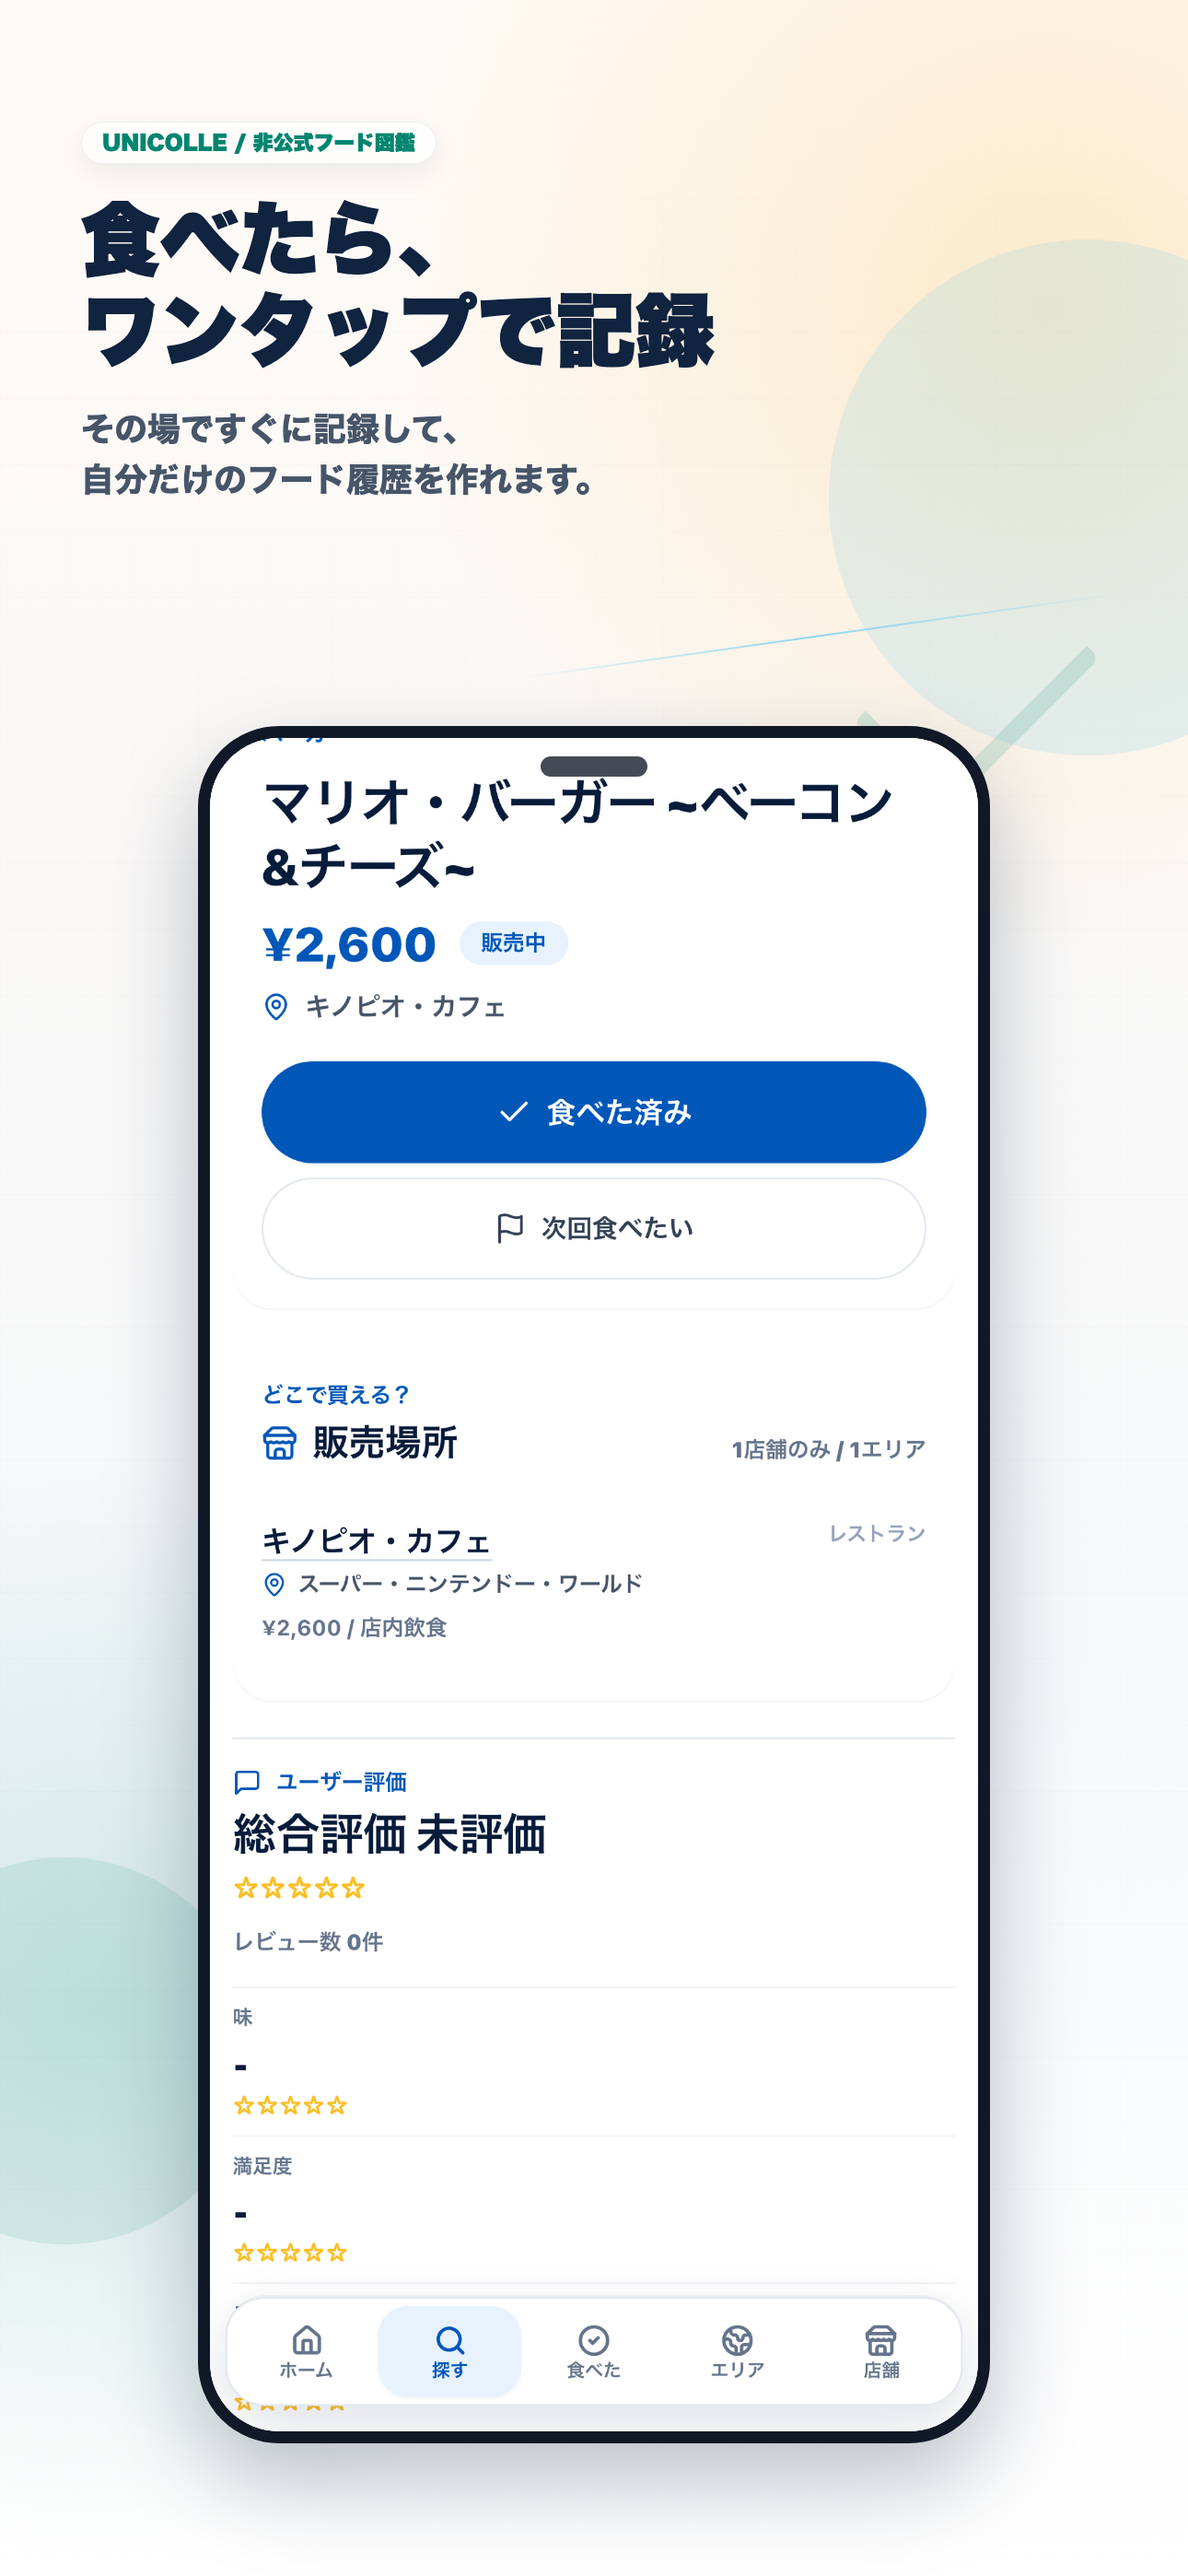
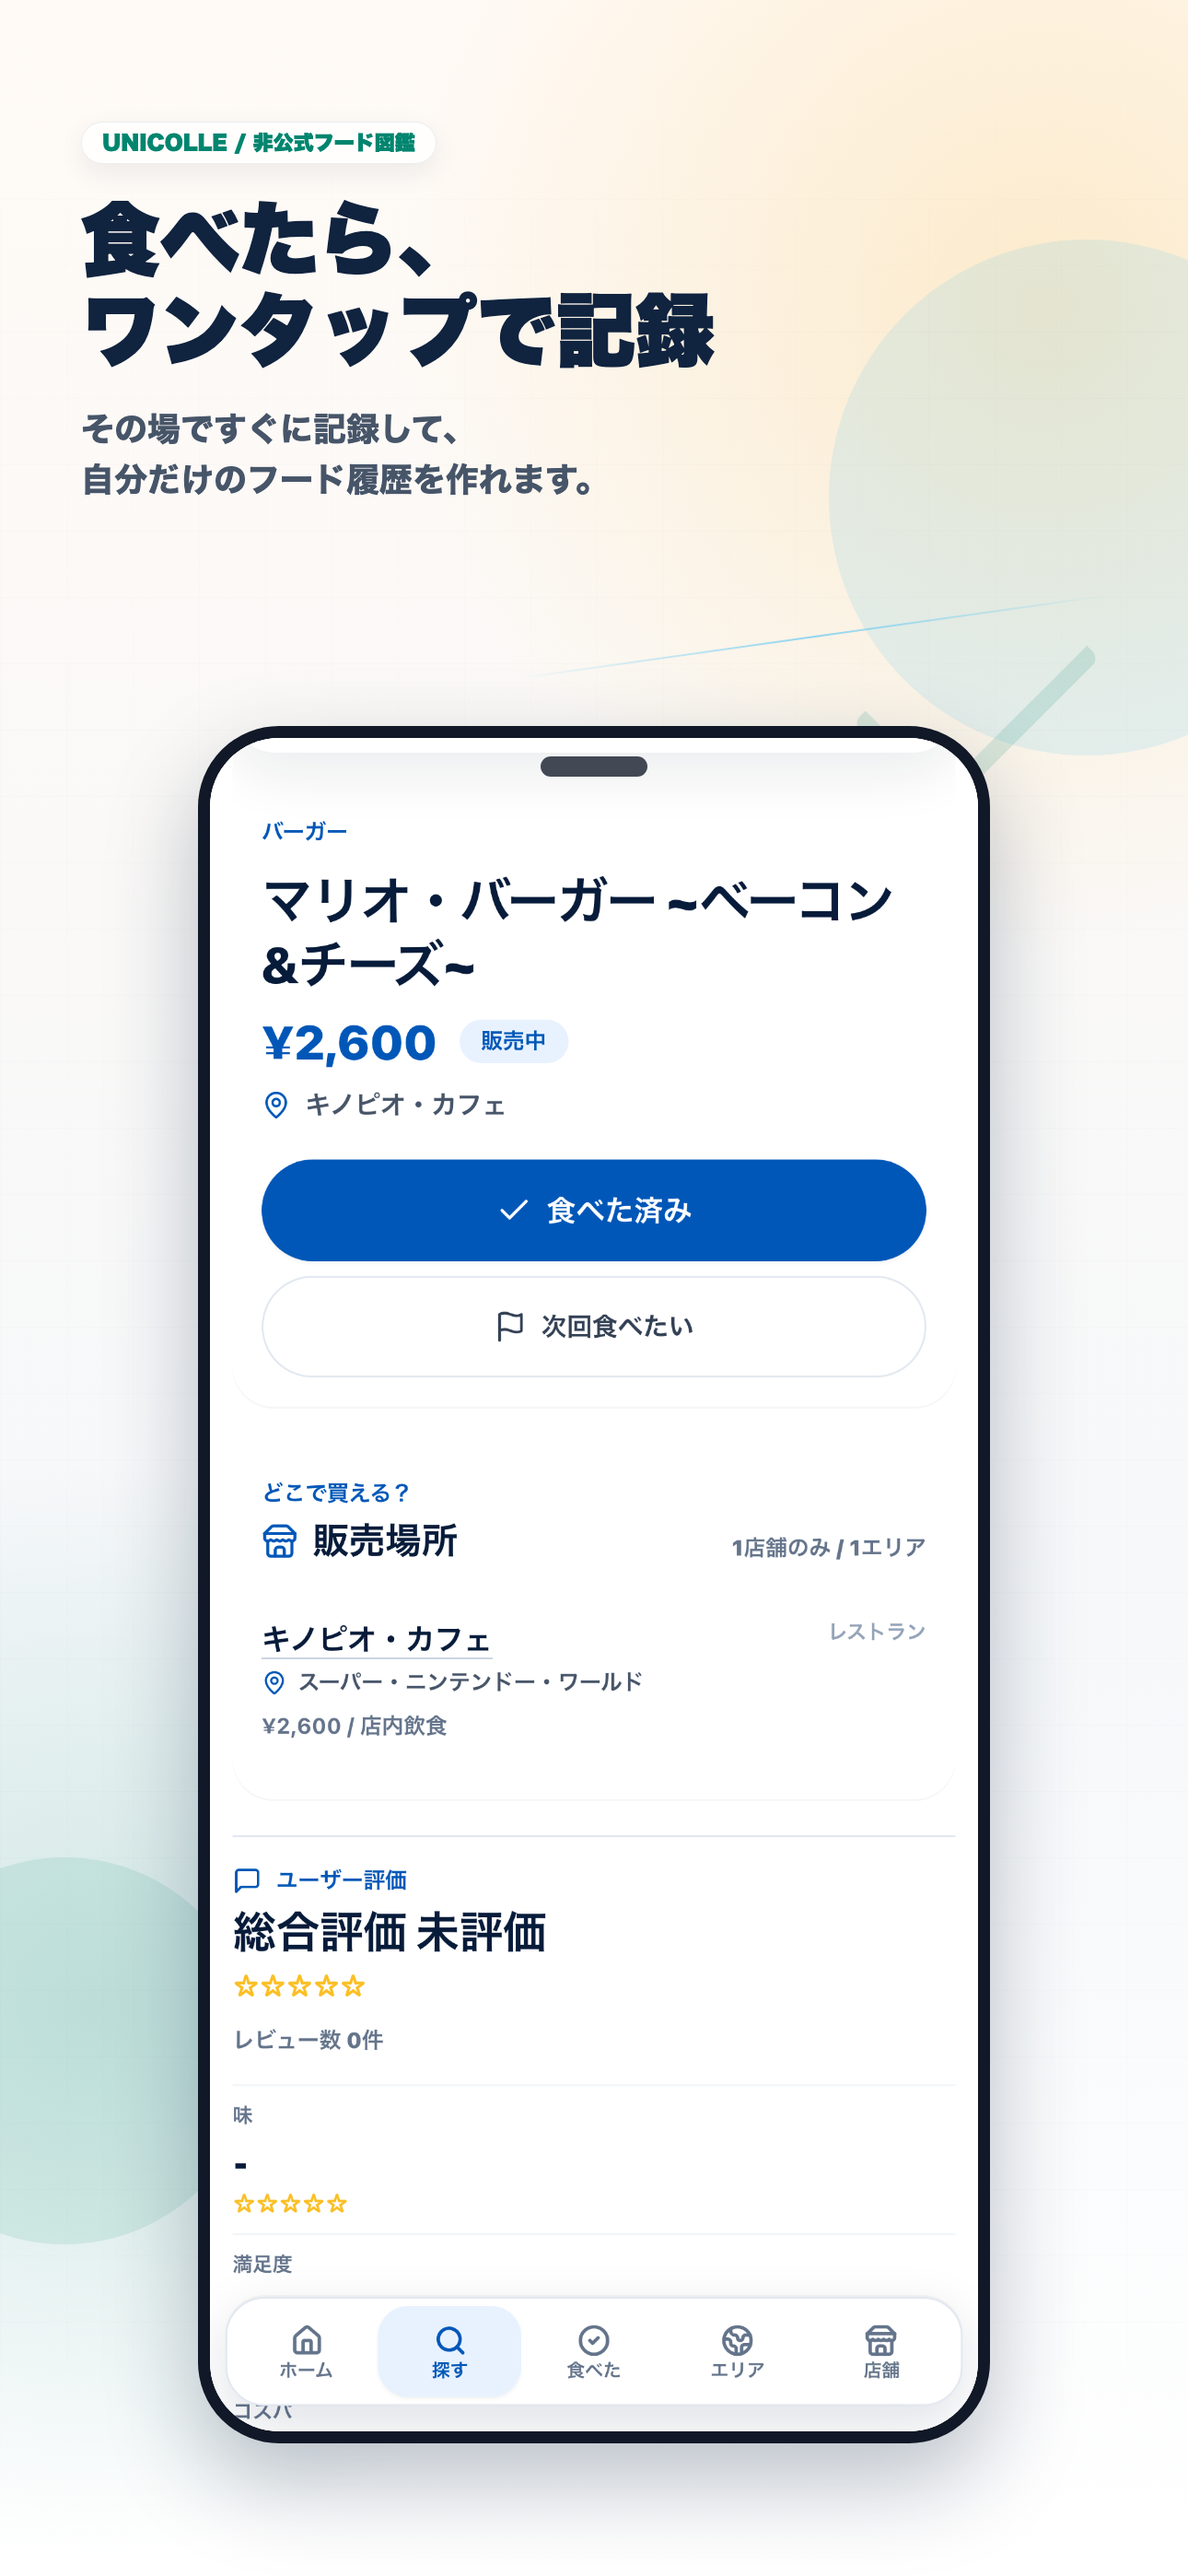
fix final screenshot crop and visual duplicates

diff --git a/scripts/app-store-screenshots/create-app-store-screenshots.ts b/scripts/app-store-screenshots/create-app-store-screenshots.ts
@@ -50,30 +50,30 @@ const eatenFoodIds = [
   "food-15srg5l",
   "food-up3lba",
   "food-1reufss",
-  "food-2qri4c",
-  "food-1dm0ouy",
   "food-1m8i41b",
   "food-1k9ohlg",
   "food-c4k9tn",
-  "food-17k66nk",
   "food-16q65hw",
   "food-1efoz95",
-  "food-1hhn874",
-  "food-ehewed",
-  "food-1f1v45i",
-  "food-ajq9zg",
-  "food-dn0p3s",
   "food-rvos7a",
-  "food-hyfchi",
-  "food-1ulknep",
-  "food-1qzo3v2",
-  "food-7yyri",
   "food-14hntqo",
-  "food-19tglum",
-  "food-6d5z2w",
-  "food-1x0ir52",
-  "food-yhtmyt",
-  "food-alnomv"
+  "food-2jv220",
+  "food-gmrx8l",
+  "food-exqw6q",
+  "food-p0tpmw",
+  "food-vxhvlr",
+  "food-1b9zmlg",
+  "food-11urhsj",
+  "food-y388y7",
+  "food-1f1v45i",
+  "food-1fcbolg",
+  "food-it27lt",
+  "food-1tt1au7",
+  "food-13uu2tv",
+  "food-1n8s9rw",
+  "food-15hqyi6",
+  "food-alnomv",
+  "food-1rqbb9j"
 ];
 
 const eatenLogs = eatenFoodIds.map((foodId, index) => ({
@@ -143,7 +143,7 @@ const screens: CapturedScreen[] = [
         const heading = document.querySelector("h1");
         if (heading) {
           heading.scrollIntoView({ block: "start", inline: "nearest" });
-          window.scrollBy(0, -18);
+          window.scrollBy(0, -72);
         }
       })();
     `
